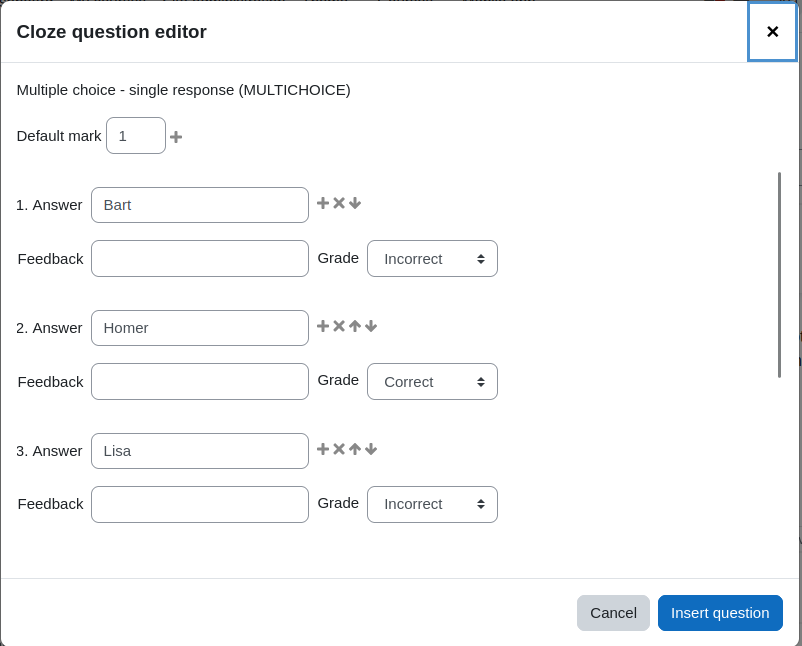
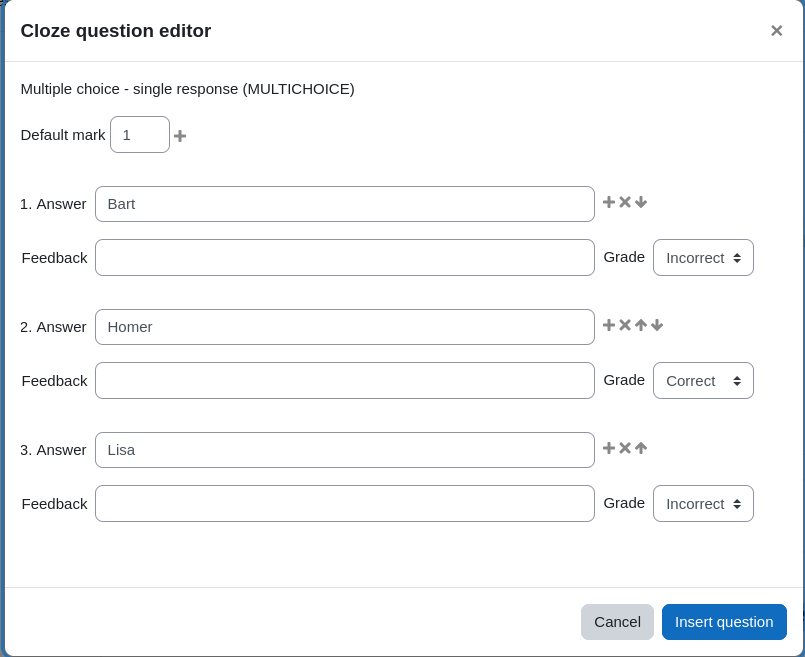
tiny_cloze_moodle44_2024083000

diff --git a/lib/editor/tiny/plugins/cloze/amd/build/ui.min.js b/lib/editor/tiny/plugins/cloze/amd/build/ui.min.js
@@ -5,6 +5,6 @@ define("tiny_cloze/ui",["exports","core/modal_events","core/modal","core/modal_f
    * @module      tiny_cloze/ui
    * @copyright   2023 MoodleDACH
    * @license     http://www.gnu.org/copyleft/gpl.html GNU GPL v3 or later
-   */Object.defineProperty(_exports,"__esModule",{value:!0}),_exports.resolveSubquestion=_exports.onSubmit=_exports.onInit=_exports.onBeforeGetContent=_exports.displayDialogue=void 0,_modal_events=_interopRequireDefault(_modal_events),_modal2=_interopRequireDefault(_modal2),_modal_factory=_interopRequireDefault(_modal_factory),_mustache=_interopRequireDefault(_mustache);const isNull=a=>null==a,strdecode=t=>String(t).replace(/\\(#|\}|~)/g,"$1"),strencode=t=>String(t).replace(/(#|\}|~)/g,"\\$1"),indexOfNode=(list,node)=>{for(let i=0;i<list.length;i++)if(list[i]===node)return i;return-1},getUuid=function(){return isNull(crypto.randomUUID)?"ed-cloze-"+Math.floor(1e5*Math.random()).toString():crypto.randomUUID()},getFractionOptions=s=>{const attrSel=' selected="selected"';let isSel="="===s?attrSel:"",html='<option value="">'.concat(STR.incorrect,'</option><option value="="').concat(isSel,">").concat(STR.correct,"</option>");return FRACTIONS.forEach((item=>{isSel=item.value.toString()===s?attrSel:"",html+='<option value="'.concat(item.value,'"').concat(isSel,">").concat(item.value,"%</option>")})),isSel=""!==s&&-1===html.indexOf(attrSel)?attrSel:"",html+='<option value="'.concat("__custom__",'"').concat(isSel,">").concat(STR.custom_grade,"</option>"),html},isCustomGrade=s=>{if("="===s||""===s)return!1;let found=!1;return FRACTIONS.forEach((item=>{item.value.toString()===s&&(found=!0)})),!found},markerClass="cloze-question-marker",markerSpan='<span contenteditable="false" class="'+markerClass+'" data-mce-contenteditable="false">',reQtype=/\{([0-9]*):(MULTICHOICE(_H|_V|_S|_HS|_VS)?|MULTIRESPONSE(_H|_S|_HS)?|NUMERICAL|SHORTANSWER(_C)?|SAC?|NM|MWC?|M[CR](V|H|VS|HS)?):(.*?)\}/g,CSS={ANSWER:"tiny_cloze_answer",ANSWERS:"tiny_cloze_answers",ADD:"tiny_cloze_add",CANCEL:"tiny_cloze_cancel",DELETE:"tiny_cloze_delete",FEEDBACK:"tiny_cloze_feedback",FRACTION:"tiny_cloze_fraction",FRAC_CUSTOM:"tiny_cloze_frac_custom",LEFT:"tiny_cloze_col0",LOWER:"tiny_cloze_down",RIGHT:"tiny_cloze_col1",MARKS:"tiny_cloze_marks",DUPLICATE:"tiny_cloze_duplicate",RAISE:"tiny_cloze_up",SUBMIT:"tiny_cloze_submit",SUMMARY:"tiny_cloze_summary",TOLERANCE:"tiny_cloze_tolerance",TYPE:"tiny_cloze_qtype"},TEMPLATE={FORM:'<div class="tiny_cloze"><p>{{name}} ({{qtype}})</p><form name="tiny_cloze_form"><div class="row ml-0"><div class="form-group"><label for="{{elementid}}_mark">{{STR.defaultmark}}</label><input id="{{elementid}}_mark" type="text" value="{{marks}}" class="{{CSS.MARKS}} form-control d-inline mx-1" /><a class="{{CSS.ADD}}" title="{{STR.addmoreanswerblanks}}"><img class="icon_smallicon" src="'+M.util.image_url("t/add","core")+'" alt="{{STR.addmoreanswerblanks}}"></a></div><div class="msg-error hidden"></div></div><div class="{{CSS.ANSWERS}} mb-3"><ol class="pl-3">{{#answerdata}}<li class="mt-3"><div class="row ml-0"><div class="{{CSS.LEFT}} form-group"><label for="{{id}}_answer">{{STR.answer}}</label><input id="{{id}}_answer" type="text" value="{{answer}}" class="{{CSS.ANSWER}} form-control d-inline mx-2" /></div><div class="{{CSS.LEFT}} form-group"><a class="{{CSS.ADD}}" title="{{STR.addmoreanswerblanks}}"><img class="icon_smallicon" src="'+M.util.image_url("t/add","core")+'" alt="{{STR.addmoreanswerblanks}}"></a><a class="{{CSS.DELETE}}" title="{{STR.delete}}"><img class="icon_smallicon" src="'+M.util.image_url("t/delete","core")+'" alt="{{STR.delete}}"></a><a class="{{CSS.RAISE}}" title="{{STR.up}}"><img class="icon_smallicon" src="'+M.util.image_url("t/up","core")+'" alt="{{STR.up}}"></a><a class="{{CSS.LOWER}}" title="{{STR.down}}"><img class="icon_smallicon" src="'+M.util.image_url("t/down","core")+'" alt="{{STR.down}}"></a></div></div>{{#numerical}}<div class="row"><div class="{{CSS.RIGHT}} form-group"><label for="{{id}}_tolerance">{{{STR.tolerance}}}</label><input id="{{id}}_tolerance" type="text" value="{{tolerance}}" class="{{CSS.TOLERANCE}} form-control d-inline mx-2" /></div></div>{{/numerical}}<div class="row"><div class="{{CSS.RIGHT}} form-group"><label for="{{id}}_feedback">{{STR.feedback}}</label><input id="{{id}}_feedback" type="text" value="{{feedback}}" class="{{CSS.FEEDBACK}} form-control d-inline mx-2" /></div><div class="{{CSS.RIGHT}} form-group"><label id="{{id}}_grade">{{STR.grade}}</label><select id="{{id}}_grade" class="{{CSS.FRACTION}} custom-select mx-2">{{{fractionOptions}}}</select></div><div class="{{CSS.RIGHT}} form-group{{^isCustomGrade}} hidden{{/isCustomGrade}}"><input id="{{id}}_grade_custom" type="text"{{#isCustomGrade}} value="{{fraction}}"{{/isCustomGrade}} class="{{CSS.FRAC_CUSTOM}} form-control d-inline mx-2" style="width: 4rem;" />%</div></div></li>{{/answerdata}}</ol></div></form></div>',TYPE:'<div class="tiny_cloze mt-0 mx-2 mb-2"><p>{{STR.chooseqtypetoadd}}</p><form name="tiny_cloze_form"><div class="{{CSS.TYPE}} form-check">{{#types}}<div class="option"><input name="qtype" id="qtype_qtype_{{type}}" value="{{type}}" type="radio" class="form-check-input"><label for="qtype_qtype_{{type}}"><span class="typename">{{type}}</span><span class="{{CSS.SUMMARY}}"><h6>{{name}}</h6><p>{{summary}}</p><ul>{{#options}}<li>{{.}}</li>{{/options}}</ul></span></label></div>{{/types}}</div></form></div>',FOOTER:'<button type="button" class="btn btn-secondary" data-action="cancel">{{cancel}}</button><button type="button" class="btn btn-primary" data-action="save">{{submit}}</button>'},FRACTIONS=[{value:100},{value:50},{value:0}],STR={},getQuestionTypes=function(){return[{type:"MULTICHOICE",abbr:["MC"],name:STR.multichoice,summary:STR.summary_multichoice,options:[STR.selectinline,STR.singleyes]},{type:"MULTICHOICE_H",abbr:["MCH"],name:STR.multichoice,summary:STR.summary_multichoice,options:[STR.horizontal,STR.singleyes]},{type:"MULTICHOICE_V",abbr:["MCV"],name:STR.multichoice,summary:STR.summary_multichoice,options:[STR.vertical,STR.singleyes]},{type:"MULTICHOICE_S",abbr:["MCS"],name:STR.multichoice,summary:STR.summary_multichoice,options:[STR.selectinline,STR.shuffle,STR.singleyes]},{type:"MULTICHOICE_HS",abbr:["MCHS"],name:STR.multichoice,summary:STR.summary_multichoice,options:[STR.horizontal,STR.shuffle,STR.singleyes]},{type:"MULTICHOICE_VS",abbr:["MCVS"],name:STR.multichoice,summary:STR.summary_multichoice,options:[STR.vertical,STR.shuffle,STR.singleyes]},{type:"MULTIRESPONSE",abbr:["MR"],name:STR.multiresponse,summary:STR.summary_multichoice,options:[STR.multi_vertical,STR.singleno]},{type:"MULTIRESPONSE_H",abbr:["MRH"],name:STR.multiresponse,summary:STR.summary_multichoice,options:[STR.multi_horizontal,STR.singleno]},{type:"MULTIRESPONSE_S",abbr:["MRS"],name:STR.multiresponse,summary:STR.summary_multichoice,options:[STR.multi_vertical,STR.shuffle,STR.singleno]},{type:"MULTIRESPONSE_HS",abbr:["MRHS"],name:STR.multiresponse,summary:STR.summary_multichoice,options:[STR.multi_horizontal,STR.shuffle,STR.singleno]},{type:"NUMERICAL",abbr:["NM"],name:STR.numerical,summary:STR.summary_numerical},{type:"SHORTANSWER",abbr:["SA","MW"],name:STR.shortanswer,summary:STR.summary_shortanswer,options:[STR.caseno]},{type:"SHORTANSWER_C",abbr:["SAC","MWC"],name:STR.shortanswer,summary:STR.summary_shortanswer,options:[STR.caseyes]}]};let _editor=null,_form=null,_answerdata=[],_qtype=null,_selectedOffset=-1,_marks=1,_modal=null,_firstAnswer=null;_exports.onInit=function(ed){_editor=ed,_addMarkers(),(async()=>{(0,_str.get_strings)([{key:"answer",component:"question"},{key:"chooseqtypetoadd",component:"question"},{key:"defaultmark",component:"question"},{key:"feedback",component:"question"},{key:"correct",component:"question"},{key:"incorrect",component:"question"},{key:"addmoreanswerblanks",component:"qtype_calculated"},{key:"delete",component:"core"},{key:"up",component:"core"},{key:"down",component:"core"},{key:"tolerance",component:"qtype_calculated"},{key:"grade",component:"grades"},{key:"caseno",component:"mod_quiz"},{key:"caseyes",component:"mod_quiz"},{key:"answersingleno",component:"qtype_multichoice"},{key:"answersingleyes",component:"qtype_multichoice"},{key:"layoutselectinline",component:"qtype_multianswer"},{key:"layouthorizontal",component:"qtype_multianswer"},{key:"layoutvertical",component:"qtype_multianswer"},{key:"shufflewithin",component:"mod_quiz"},{key:"layoutmultiple_horizontal",component:"qtype_multianswer"},{key:"layoutmultiple_vertical",component:"qtype_multianswer"},{key:"pluginnamesummary",component:"qtype_multichoice"},{key:"pluginnamesummary",component:"qtype_shortanswer"},{key:"pluginnamesummary",component:"qtype_numerical"},{key:"multichoice",component:_common.component},{key:"multiresponse",component:_common.component},{key:"numerical",component:"mod_quiz"},{key:"shortanswer",component:"mod_quiz"},{key:"cancel",component:"core"},{key:"select",component:_common.component},{key:"insert",component:_common.component},{key:"pluginname",component:_common.component},{key:"customgrade",component:_common.component},{key:"err_custom_rate",component:_common.component},{key:"err_empty_answer",component:_common.component},{key:"err_none_correct",component:_common.component},{key:"err_not_numeric",component:_common.component}]).then((function(){const args=Array.from(arguments);return["answer","chooseqtypetoadd","defaultmark","feedback","correct","incorrect","addmoreanswerblanks","delete","up","down","tolerance","grade","caseno","caseyes","singleno","singleyes","selectinline","horizontal","vertical","shuffle","multi_horizontal","multi_vertical","summary_multichoice","summary_shortanswer","summary_numerical","multichoice","multiresponse","numerical","shortanswer","btn_cancel","btn_select","btn_insert","title","custom_grade","err_custom_rate","err_empty_answer","err_none_correct","err_not_numeric"].map(((l,i)=>(STR[l]=args[0][i],""))),""})).catch((()=>""))})()};const _createModal=async function(){const cfg={title:STR.title,templateContext:{elementid:_editor.id},removeOnClose:!0,large:!0};_modal="function"==typeof _modal2.default.create?await _modal2.default.create(cfg):await _modal_factory.default.create(cfg)};_exports.displayDialogue=async function(){await _createModal();var subquestion=resolveSubquestion();subquestion?(_firstAnswer=null,_selectedOffset=indexOfNode(_editor.dom.select("."+markerClass),subquestion),_parseSubquestion(subquestion.innerHTML),_setDialogueContent(_qtype)):(_firstAnswer=_editor.selection.getContent(),_selectedOffset=-1,_setDialogueContent())};const _addMarkers=function(){let m,content=_editor.getContent(),newContent="";if(-1===content.indexOf(markerClass)){do{if(m=content.match(reQtype),!m){newContent+=content;break}const pos=content.indexOf(m[0]);newContent+=content.substring(0,pos)+markerSpan+content.substring(pos,pos+m[0].length),content=content.substring(pos+m[0].length);let level=(m[0].match(/\{/g)||[]).length;if(1!==level){for(;level>1;){const a=content.indexOf("{"),b=content.indexOf("}");a>-1&&b>-1&&a<b?(level++,newContent=content.substring(0,a),content=content.substring(a+1)):b>-1?(newContent=content.substring(0,b),content=content.substring(b+1),level--):level=1}newContent+="</span>"}else newContent+="</span>"}while(m);_editor.setContent(newContent)}},_removeMarkers=function(){for(const span of _editor.dom.select("span."+markerClass))_editor.dom.setOuterHTML(span,span.classList.contains("new")?"":span.innerHTML)};_exports.onBeforeGetContent=function(content){if(!isNull(content.source_view)&&!0===content.source_view){var onClose=function(){_editor.off("close",onClose),_addMarkers()};_editor.on("CloseWindow",(()=>{onClose()})),_modal||_removeMarkers()}};_exports.onSubmit=function(){_removeMarkers()};const _setDialogueContent=function(qtype,nomodalevents){const footer=_mustache.default.render(TEMPLATE.FOOTER,{cancel:STR.btn_cancel,submit:qtype?STR.btn_insert:STR.btn_select});let contentText;contentText=qtype?_mustache.default.render(TEMPLATE.FORM,{CSS:CSS,STR:STR,answerdata:_answerdata,elementid:getUuid(),qtype:_qtype,name:getQuestionTypes().filter((q=>_qtype===q.type))[0].name,marks:_marks,numerical:"NUMERICAL"===_qtype||"NM"===_qtype}):_mustache.default.render(TEMPLATE.TYPE,{CSS:CSS,STR:STR,qtype:_qtype,types:getQuestionTypes()}),_modal.setBody(contentText),_modal.setFooter(footer),_modal.show();const $root=_modal.getRoot();if(_form=$root.get(0).querySelector("form"),!nomodalevents){if(_modal.registerEventListeners(),_modal.registerCloseOnSave(),_modal.registerCloseOnCancel(),$root.on(_modal_events.default.cancel,_cancel),!qtype)return void $root.on(_modal_events.default.save,_choiceHandler);$root.on(_modal_events.default.save,_setSubquestion)}const getTarget=e=>{let p=e.target;for(;!isNull(p)&&1===p.nodeType&&"A"!==p.tagName;)p=p.parentNode;return isNull(p.classList)?null:p};_form.addEventListener("click",(e=>{const p=getTarget(e);if(!isNull(p))return p.classList.contains(CSS.DELETE)?(e.preventDefault(),void _deleteAnswer(p)):p.classList.contains(CSS.ADD)?(e.preventDefault(),void _addAnswer(p)):p.classList.contains(CSS.LOWER)?(e.preventDefault(),void _lowerAnswer(p)):void(p.classList.contains(CSS.RAISE)&&(e.preventDefault(),_raiseAnswer(p)))})),_form.addEventListener("keyup",(e=>{const p=getTarget(e);isNull(p)||(p.classList.contains(CSS.ANSWER)||p.classList.contains(CSS.FEEDBACK))&&(e.preventDefault(),_addAnswer(p))})),_form.querySelectorAll("."+CSS.FRACTION).forEach((sel=>{sel.addEventListener("change",(e=>{const id=e.target.getAttribute("id");"__custom__"===e.target.value?document.getElementById(id+"_custom").parentNode.classList.remove("hidden"):document.getElementById(id+"_custom").parentNode.classList.add("hidden")}))}))},_choiceHandler=function(e){e.preventDefault();let qtype=_form.querySelector("input[name=qtype]:checked");qtype&&(_qtype=qtype.value);const max=-1!==_qtype.indexOf("SHORTANSWER")||"NUMERICAL"===_qtype?1:3,blankAnswer={id:getUuid(),answer:"",feedback:"",fraction:100,fractionOptions:getFractionOptions("="),tolerance:0,isCustomGrade:!1};_answerdata=[];for(let x=0;x<max;x++)_answerdata.push({...blankAnswer,id:getUuid()});_firstAnswer&&(_answerdata[0].answer=_firstAnswer),_modal.destroy(),_createModal().then((()=>(_setDialogueContent(_qtype),_form.querySelector("."+CSS.ANSWER).focus(),""))).catch((()=>""))},_parseSubquestion=function(question){_answerdata=[];const parts=reQtype.exec(question);if(reQtype.lastIndex=0,!parts)return;_marks=parts[1],_qtype=parts[2],_qtype.length<5&&getQuestionTypes().forEach((l=>{for(const a of l.abbr)if(a===_qtype)return void(_qtype=l.type)}));const answers=parts[7].match(/(\\.|[^~])*/g);answers&&answers.forEach((function(answer){const options=/^(%(-?[.0-9]+)%|(=?))((\\.|[^#])*)#?(.*)/.exec(answer);if(options&&options[4]){let frac="";if(options[3]?frac="="===options[3]?"=":100:options[2]&&(frac=options[2]),"NUMERICAL"===_qtype||"NM"===_qtype){const tolerance=/^([^:]*):?(.*)/.exec(options[4])[2]||0;return void _answerdata.push({id:getUuid(),answer:strdecode(options[4].replace(/:.*/,"")),feedback:strdecode(options[6]),tolerance:tolerance,fraction:frac,fractionOptions:getFractionOptions(frac),isCustomGrade:isCustomGrade(frac)})}_answerdata.push({answer:strdecode(options[4]),id:getUuid(),feedback:strdecode(options[6]),fraction:frac,fractionOptions:getFractionOptions(frac),isCustomGrade:isCustomGrade(frac)})}}))},_addAnswer=function(a){let index=indexOfNode(_form.querySelectorAll("."+CSS.ADD),a);-1===index&&(index=0);let fraction="",answer="",feedback="",tolerance=0;a.closest("li")&&(fraction=a.closest("li").querySelector("."+CSS.FRACTION).value,"__custom__"===fraction&&(fraction=a.closest("li").querySelector("."+CSS.FRAC_CUSTOM).value),answer=a.closest("li").querySelector("."+CSS.ANSWER).value,feedback=a.closest("li").querySelector("."+CSS.FEEDBACK).value,a.closest("li").querySelector("."+CSS.TOLERANCE)&&(tolerance=a.closest("li").querySelector("."+CSS.TOLERANCE).value)),_processFormData(),_answerdata.splice(index,0,{id:getUuid(),answer:answer,feedback:feedback,fraction:fraction,fractionOptions:getFractionOptions(fraction),tolerance:tolerance,isCustomGrade:isCustomGrade(fraction)}),_setDialogueContent(_qtype,!0),_form.querySelectorAll("."+CSS.ANSWER).item(index).focus()},_deleteAnswer=function(a){let index=indexOfNode(_form.querySelectorAll("."+CSS.DELETE),a);-1===index&&(index=indexOfNode(_form.querySelectorAll("li"),a.closest("li"))),_processFormData(),_answerdata.splice(index,1),_setDialogueContent(_qtype,!0);const answers=_form.querySelectorAll("."+CSS.ANSWER);index=Math.min(index,answers.length-1),answers.item(index).focus()},_lowerAnswer=function(a){const li=a.closest("li");li.before(li.nextSibling),li.querySelector("."+CSS.ANSWER).focus()},_raiseAnswer=function(a){const li=a.closest("li");li.after(li.previousSibling),li.querySelector("."+CSS.ANSWER).focus()},_cancel=function(e){e.preventDefault();for(const span of _editor.dom.select("."+markerClass+".new"))span.remove();_modal.destroy(),_editor.focus(),_modal=null},_setSubquestion=function(e){e.preventDefault();const errMsg=_form.querySelector(".msg-error"),formErrors=_processFormData(!0);if(formErrors.length>0){const unique=formErrors.filter(((value,index,array)=>array.indexOf(value)===index));return errMsg.innerHTML="<ul><li>"+unique.join("</li><li>")+"</li></ul>",void errMsg.classList.remove("hidden")}errMsg.classList.add("hidden");let question="{"+_marks+":"+_qtype+":";for(let i=0;i<_answerdata.length;i++)question+=_answerdata[i].fraction&&!isNaN(_answerdata[i].fraction)?"%"+_answerdata[i].fraction+"%":_answerdata[i].fraction,question+=strencode(_answerdata[i].answer),"NM"!==_qtype&&"NUMERICAL"!==_qtype||(question+=":"+_answerdata[i].tolerance),_answerdata[i].feedback&&(question+="#"+strencode(_answerdata[i].feedback)),i<_answerdata.length-1&&(question+="~");question+="}",_modal.destroy(),_modal=null,_editor.focus(),_selectedOffset>-1?_editor.dom.select("."+markerClass)[_selectedOffset].innerHTML=question:_editor.insertContent(markerSpan+question+"</span>")},_processFormData=function(validate){let answer;_answerdata=[];let tolerance=0,hasErrors=[],foundCorrect=!1;const answers=_form.querySelectorAll("."+CSS.ANSWER),feedbacks=_form.querySelectorAll("."+CSS.FEEDBACK),fractions=_form.querySelectorAll("."+CSS.FRACTION),customGrades=_form.querySelectorAll("."+CSS.FRAC_CUSTOM),tolerances=_form.querySelectorAll("."+CSS.TOLERANCE);for(let i=0;i<answers.length;i++){answers.item(i).classList.remove("error"),customGrades.item(i).classList.remove("error"),answer=answers.item(i).value,"NM"!==_qtype&&"NUMERICAL"!==_qtype||(answer=Number(answer),tolerance=Number(tolerances.item(i).value),tolerances.item(i).classList.remove("error"),validate&&(isNaN(answer)&&(answers.item(i).classList.add("error"),hasErrors.push(STR.err_not_numeric)),isNaN(tolerance)&&(tolerances.item(i).classList.add("error"),hasErrors.push(STR.err_not_numeric))));const currentAnswer={answer:answer,id:getUuid(),feedback:feedbacks.item(i).value,fraction:"__custom__"===fractions.item(i).value?customGrades.item(i).value:fractions.item(i).value,fractionOptions:getFractionOptions(fractions.item(i).value),tolerance:tolerance,isCustomGrade:"__custom__"===fractions.item(i).value};validate&&(currentAnswer.isCustomGrade&&(isNaN(currentAnswer.fraction)||currentAnswer.fraction<-100||currentAnswer.fraction>100||""===currentAnswer.fraction.trim())&&(hasErrors.push(STR.err_custom_rate),customGrades.item(i).classList.add("error")),""===answers.item(i).value.trim()&&(answers.item(i).classList.add("error"),hasErrors.push(STR.err_empty_answer)),"100"!==currentAnswer.fraction&&"="!==currentAnswer.fraction||(foundCorrect=!0)),_answerdata.push(currentAnswer),_marks=_form.querySelector("."+CSS.MARKS).value}return validate&&!foundCorrect&&hasErrors.push(STR.err_none_correct),hasErrors},resolveSubquestion=function(){let span=_editor.selection.getStart();return!isNull(span.classList)&&span.classList.contains(markerClass)?span:(_editor.dom.getParents(span,(elm=>!(isNull(elm.classList)||!elm.classList.contains(markerClass))&&elm)),!1)};_exports.resolveSubquestion=resolveSubquestion}));
+   */Object.defineProperty(_exports,"__esModule",{value:!0}),_exports.resolveSubquestion=_exports.onSubmit=_exports.onInit=_exports.onBeforeGetContent=_exports.displayDialogue=void 0,_modal_events=_interopRequireDefault(_modal_events),_modal2=_interopRequireDefault(_modal2),_modal_factory=_interopRequireDefault(_modal_factory),_mustache=_interopRequireDefault(_mustache);const isNull=a=>null==a,strdecode=t=>String(t).replace(/\\(#|\}|~)/g,"$1"),strencode=t=>String(t).replace(/(#|\}|~)/g,"\\$1"),indexOfNode=(list,node)=>{for(let i=0;i<list.length;i++)if(list[i]===node)return i;return-1},getUuid=function(){return isNull(crypto.randomUUID)?"ed-cloze-"+Math.floor(1e5*Math.random()).toString():crypto.randomUUID()},getFractionOptions=s=>{const attrSel=' selected="selected"';let isSel="="===s?attrSel:"",html='<option value="">'.concat(STR.incorrect,'</option><option value="="').concat(isSel,">").concat(STR.correct,"</option>");return FRACTIONS.forEach((item=>{isSel=item.value.toString()===s?attrSel:"",html+='<option value="'.concat(item.value,'"').concat(isSel,">").concat(item.value,"%</option>")})),isSel=""!==s&&-1===html.indexOf(attrSel)?attrSel:"",html+='<option value="'.concat("__custom__",'"').concat(isSel,">").concat(STR.custom_grade,"</option>"),html},isCustomGrade=s=>{if("="===s||""===s)return!1;let found=!1;return FRACTIONS.forEach((item=>{item.value.toString()===s&&(found=!0)})),!found},markerClass="cloze-question-marker",markerSpan='<span contenteditable="false" class="'+markerClass+'" data-mce-contenteditable="false">',reQtype=/\{([0-9]*):(MULTICHOICE(_H|_V|_S|_HS|_VS)?|MULTIRESPONSE(_H|_S|_HS)?|NUMERICAL|SHORTANSWER(_C)?|SAC?|NM|MWC?|M[CR](V|H|VS|HS)?):(.*?)\}/g,CSS={ANSWER:"tiny_cloze_answer",ANSWERS:"tiny_cloze_answers",ADD:"tiny_cloze_add",CANCEL:"tiny_cloze_cancel",DELETE:"tiny_cloze_delete",FEEDBACK:"tiny_cloze_feedback",FRACTION:"tiny_cloze_fraction",FRAC_CUSTOM:"tiny_cloze_frac_custom",LEFT:"tiny_cloze_col0",LOWER:"tiny_cloze_down",RIGHT:"tiny_cloze_col1",MARKS:"tiny_cloze_marks",DUPLICATE:"tiny_cloze_duplicate",RAISE:"tiny_cloze_up",SUBMIT:"tiny_cloze_submit",SUMMARY:"tiny_cloze_summary",TOLERANCE:"tiny_cloze_tolerance",TYPE:"tiny_cloze_qtype"},TEMPLATE={FORM:'<div class="tiny_cloze"><p>{{name}} ({{qtype}})</p><form name="tiny_cloze_form"><div class="row ml-0"><div class="form-group"><label for="{{elementid}}_mark">{{STR.defaultmark}}</label><input id="{{elementid}}_mark" type="text" value="{{marks}}" class="{{CSS.MARKS}} form-control d-inline mx-1" /><a class="{{CSS.ADD}}" title="{{STR.addmoreanswerblanks}}"><img class="icon_smallicon" src="'+M.util.image_url("t/add","core")+'" alt="{{STR.addmoreanswerblanks}}"></a></div><div class="msg-error hidden"></div></div><div class="{{CSS.ANSWERS}} mb-3"><ol class="pl-3">{{#answerdata}}<li class="mt-3"><div class="row ml-0"><div class="{{CSS.LEFT}} form-group"><label for="{{id}}_answer">{{STR.answer}}</label><input id="{{id}}_answer" type="text" value="{{answer}}" class="{{CSS.ANSWER}} form-control d-inline mx-2" /></div><div class="{{CSS.LEFT}} form-group"><a class="{{CSS.ADD}}" title="{{STR.addmoreanswerblanks}}"><img class="icon_smallicon" src="'+M.util.image_url("t/add","core")+'" alt="{{STR.addmoreanswerblanks}}"></a><a class="{{CSS.DELETE}}" title="{{STR.delete}}"><img class="icon_smallicon" src="'+M.util.image_url("t/delete","core")+'" alt="{{STR.delete}}"></a><a class="{{CSS.RAISE}}" title="{{STR.up}}"><img class="icon_smallicon" src="'+M.util.image_url("t/up","core")+'" alt="{{STR.up}}"></a><a class="{{CSS.LOWER}}" title="{{STR.down}}"><img class="icon_smallicon" src="'+M.util.image_url("t/down","core")+'" alt="{{STR.down}}"></a></div></div>{{#numerical}}<div class="row"><div class="{{CSS.RIGHT}} form-group"><label for="{{id}}_tolerance">{{{STR.tolerance}}}</label><input id="{{id}}_tolerance" type="text" value="{{tolerance}}" class="{{CSS.TOLERANCE}} form-control d-inline mx-2" /></div></div>{{/numerical}}<div class="row"><div class="{{CSS.RIGHT}} form-group"><label for="{{id}}_feedback">{{STR.feedback}}</label><input id="{{id}}_feedback" type="text" value="{{feedback}}" class="{{CSS.FEEDBACK}} form-control d-inline mx-2" /></div><div class="{{CSS.RIGHT}} form-group"><label id="{{id}}_grade">{{STR.grade}}</label><select id="{{id}}_grade" class="{{CSS.FRACTION}} custom-select mx-2">{{{fractionOptions}}}</select></div><div class="{{CSS.RIGHT}} form-group{{^isCustomGrade}} hidden{{/isCustomGrade}}"><input id="{{id}}_grade_custom" type="text"{{#isCustomGrade}} value="{{fraction}}"{{/isCustomGrade}} class="{{CSS.FRAC_CUSTOM}} form-control d-inline mx-2" style="width: 4rem;" />%</div></div></li>{{/answerdata}}</ol></div></form></div>',TYPE:'<div class="tiny_cloze mt-0 mx-2 mb-2"><p>{{STR.chooseqtypetoadd}}</p><form name="tiny_cloze_form"><div class="{{CSS.TYPE}} form-check">{{#types}}<div class="option"><input name="qtype" id="qtype_qtype_{{type}}" value="{{type}}" type="radio" class="form-check-input"><label for="qtype_qtype_{{type}}"><span class="typename">{{type}}</span><span class="{{CSS.SUMMARY}}"><h6>{{name}}</h6><p>{{summary}}</p><ul>{{#options}}<li>{{.}}</li>{{/options}}</ul></span></label></div>{{/types}}</div></form></div>',FOOTER:'<button type="button" class="btn btn-secondary" data-action="cancel">{{cancel}}</button><button type="button" class="btn btn-primary" data-action="save">{{submit}}</button>'},FRACTIONS=[{value:100},{value:50},{value:0}],STR={},getQuestionTypes=function(){return[{type:"MULTICHOICE",abbr:["MC"],name:STR.multichoice,summary:STR.summary_multichoice,options:[STR.selectinline,STR.singleyes]},{type:"MULTICHOICE_H",abbr:["MCH"],name:STR.multichoice,summary:STR.summary_multichoice,options:[STR.horizontal,STR.singleyes]},{type:"MULTICHOICE_V",abbr:["MCV"],name:STR.multichoice,summary:STR.summary_multichoice,options:[STR.vertical,STR.singleyes]},{type:"MULTICHOICE_S",abbr:["MCS"],name:STR.multichoice,summary:STR.summary_multichoice,options:[STR.selectinline,STR.shuffle,STR.singleyes]},{type:"MULTICHOICE_HS",abbr:["MCHS"],name:STR.multichoice,summary:STR.summary_multichoice,options:[STR.horizontal,STR.shuffle,STR.singleyes]},{type:"MULTICHOICE_VS",abbr:["MCVS"],name:STR.multichoice,summary:STR.summary_multichoice,options:[STR.vertical,STR.shuffle,STR.singleyes]},{type:"MULTIRESPONSE",abbr:["MR"],name:STR.multiresponse,summary:STR.summary_multichoice,options:[STR.multi_vertical,STR.singleno]},{type:"MULTIRESPONSE_H",abbr:["MRH"],name:STR.multiresponse,summary:STR.summary_multichoice,options:[STR.multi_horizontal,STR.singleno]},{type:"MULTIRESPONSE_S",abbr:["MRS"],name:STR.multiresponse,summary:STR.summary_multichoice,options:[STR.multi_vertical,STR.shuffle,STR.singleno]},{type:"MULTIRESPONSE_HS",abbr:["MRHS"],name:STR.multiresponse,summary:STR.summary_multichoice,options:[STR.multi_horizontal,STR.shuffle,STR.singleno]},{type:"NUMERICAL",abbr:["NM"],name:STR.numerical,summary:STR.summary_numerical},{type:"SHORTANSWER",abbr:["SA","MW"],name:STR.shortanswer,summary:STR.summary_shortanswer,options:[STR.caseno]},{type:"SHORTANSWER_C",abbr:["SAC","MWC"],name:STR.shortanswer,summary:STR.summary_shortanswer,options:[STR.caseyes]}]};let _editor=null,_form=null,_answerdata=[],_qtype=null,_selectedOffset=-1,_marks=1,_modal=null,_firstAnswer=null;_exports.onInit=function(ed){_editor=ed,_addMarkers(),(async()=>{(0,_str.get_strings)([{key:"answer",component:"question"},{key:"chooseqtypetoadd",component:"question"},{key:"defaultmark",component:"question"},{key:"feedback",component:"question"},{key:"correct",component:"question"},{key:"incorrect",component:"question"},{key:"addmoreanswerblanks",component:"qtype_calculated"},{key:"delete",component:"core"},{key:"up",component:"core"},{key:"down",component:"core"},{key:"tolerance",component:"qtype_calculated"},{key:"grade",component:"grades"},{key:"caseno",component:"mod_quiz"},{key:"caseyes",component:"mod_quiz"},{key:"answersingleno",component:"qtype_multichoice"},{key:"answersingleyes",component:"qtype_multichoice"},{key:"layoutselectinline",component:"qtype_multianswer"},{key:"layouthorizontal",component:"qtype_multianswer"},{key:"layoutvertical",component:"qtype_multianswer"},{key:"shufflewithin",component:"mod_quiz"},{key:"layoutmultiple_horizontal",component:"qtype_multianswer"},{key:"layoutmultiple_vertical",component:"qtype_multianswer"},{key:"pluginnamesummary",component:"qtype_multichoice"},{key:"pluginnamesummary",component:"qtype_shortanswer"},{key:"pluginnamesummary",component:"qtype_numerical"},{key:"multichoice",component:_common.component},{key:"multiresponse",component:_common.component},{key:"numerical",component:"mod_quiz"},{key:"shortanswer",component:"mod_quiz"},{key:"cancel",component:"core"},{key:"select",component:_common.component},{key:"insert",component:_common.component},{key:"pluginname",component:_common.component},{key:"customgrade",component:_common.component},{key:"err_custom_rate",component:_common.component},{key:"err_empty_answer",component:_common.component},{key:"err_none_correct",component:_common.component},{key:"err_not_numeric",component:_common.component}]).then((function(){const args=Array.from(arguments);return["answer","chooseqtypetoadd","defaultmark","feedback","correct","incorrect","addmoreanswerblanks","delete","up","down","tolerance","grade","caseno","caseyes","singleno","singleyes","selectinline","horizontal","vertical","shuffle","multi_horizontal","multi_vertical","summary_multichoice","summary_shortanswer","summary_numerical","multichoice","multiresponse","numerical","shortanswer","btn_cancel","btn_select","btn_insert","title","custom_grade","err_custom_rate","err_empty_answer","err_none_correct","err_not_numeric"].map(((l,i)=>(STR[l]=args[0][i],""))),""})).catch((()=>""))})()};const _createModal=async function(){const cfg={title:STR.title,templateContext:{elementid:_editor.id},removeOnClose:!0,large:!0};_modal="function"==typeof _modal2.default.create?await _modal2.default.create(cfg):await _modal_factory.default.create(cfg)};_exports.displayDialogue=async function(){await _createModal();var subquestion=resolveSubquestion();subquestion?(_firstAnswer=null,_selectedOffset=indexOfNode(_editor.dom.select("."+markerClass),subquestion),_parseSubquestion(subquestion.innerHTML),_setDialogueContent(_qtype)):(_firstAnswer=_editor.selection.getContent(),_selectedOffset=-1,_setDialogueContent())};const _addMarkers=function(){let m,content=_editor.getContent(),newContent="";if(-1===content.indexOf(markerClass)){do{if(m=content.match(reQtype),!m){newContent+=content;break}const pos=content.indexOf(m[0]);newContent+=content.substring(0,pos)+markerSpan+content.substring(pos,pos+m[0].length),content=content.substring(pos+m[0].length);let level=(m[0].match(/\{/g)||[]).length;if(1!==level){for(;level>1;){const a=content.indexOf("{"),b=content.indexOf("}");a>-1&&b>-1&&a<b?(level++,newContent=content.substring(0,a),content=content.substring(a+1)):b>-1?(newContent=content.substring(0,b),content=content.substring(b+1),level--):level=1}newContent+="</span>"}else newContent+="</span>"}while(m);_editor.setContent(newContent)}},_removeMarkers=function(){for(const span of _editor.dom.select("span."+markerClass))_editor.dom.setOuterHTML(span,span.classList.contains("new")?"":span.innerHTML)};_exports.onBeforeGetContent=function(content){if(!isNull(content.source_view)&&!0===content.source_view){var onClose=function(){_editor.off("close",onClose),_addMarkers()};_editor.on("CloseWindow",(()=>{onClose()})),_modal||_removeMarkers()}};_exports.onSubmit=function(){_removeMarkers()};const _setDialogueContent=function(qtype,nomodalevents){const footer=_mustache.default.render(TEMPLATE.FOOTER,{cancel:STR.btn_cancel,submit:qtype?STR.btn_insert:STR.btn_select});let contentText;contentText=qtype?_mustache.default.render(TEMPLATE.FORM,{CSS:CSS,STR:STR,answerdata:_answerdata,elementid:getUuid(),qtype:_qtype,name:getQuestionTypes().filter((q=>_qtype===q.type))[0].name,marks:_marks,numerical:"NUMERICAL"===_qtype||"NM"===_qtype}):_mustache.default.render(TEMPLATE.TYPE,{CSS:CSS,STR:STR,qtype:_qtype,types:getQuestionTypes()}),_modal.setBody(contentText),_modal.setFooter(footer),_modal.show();const $root=_modal.getRoot();if(_form=$root.get(0).querySelector("form"),!nomodalevents){if(_modal.registerEventListeners(),_modal.registerCloseOnSave(),_modal.registerCloseOnCancel(),$root.on(_modal_events.default.cancel,_cancel),!qtype)return void $root.on(_modal_events.default.save,_choiceHandler);$root.on(_modal_events.default.save,_setSubquestion)}const getTarget=e=>{let p=e.target;for(;!isNull(p)&&1===p.nodeType&&"A"!==p.tagName;)p=p.parentNode;return isNull(p.classList)?null:p};_form.addEventListener("click",(e=>{const p=getTarget(e);if(!isNull(p))return p.classList.contains(CSS.DELETE)?(e.preventDefault(),void _deleteAnswer(p)):p.classList.contains(CSS.ADD)?(e.preventDefault(),void _addAnswer(p)):p.classList.contains(CSS.LOWER)?(e.preventDefault(),void _lowerAnswer(p)):void(p.classList.contains(CSS.RAISE)&&(e.preventDefault(),_raiseAnswer(p)))})),_form.addEventListener("keyup",(e=>{const p=getTarget(e);isNull(p)||(p.classList.contains(CSS.ANSWER)||p.classList.contains(CSS.FEEDBACK))&&(e.preventDefault(),_addAnswer(p))})),_form.querySelectorAll("."+CSS.FRACTION).forEach((sel=>{sel.addEventListener("change",(e=>{const id=e.target.getAttribute("id");"__custom__"===e.target.value?document.getElementById(id+"_custom").parentNode.classList.remove("hidden"):document.getElementById(id+"_custom").parentNode.classList.add("hidden")}))}))},_choiceHandler=function(e){e.preventDefault();let qtype=_form.querySelector("input[name=qtype]:checked");qtype&&(_qtype=qtype.value);const max=-1!==_qtype.indexOf("SHORTANSWER")||"NUMERICAL"===_qtype?1:3,blankAnswer={id:getUuid(),answer:"",feedback:"",fraction:100,fractionOptions:getFractionOptions(""),tolerance:0,isCustomGrade:!1};_answerdata=[];for(let x=0;x<max;x++)_answerdata.push({...blankAnswer,id:getUuid()});_answerdata[0].fractionOptions=getFractionOptions("="),_firstAnswer&&(_answerdata[0].answer=_firstAnswer),_modal.destroy(),_createModal().then((()=>(_setDialogueContent(_qtype),_form.querySelector("."+CSS.ANSWER).focus(),""))).catch((()=>""))},_parseSubquestion=function(question){_answerdata=[];const parts=reQtype.exec(question);if(reQtype.lastIndex=0,!parts)return;_marks=parts[1],_qtype=parts[2],_qtype.length<5&&getQuestionTypes().forEach((l=>{for(const a of l.abbr)if(a===_qtype)return void(_qtype=l.type)}));const answers=parts[7].match(/(\\.|[^~])*/g);answers&&answers.forEach((function(answer){const options=/^(%(-?[.0-9]+)%|(=?))((\\.|[^#])*)#?(.*)/.exec(answer);if(options&&options[4]){let frac="";if(options[3]?frac="="===options[3]?"=":100:options[2]&&(frac=options[2]),"NUMERICAL"===_qtype||"NM"===_qtype){const tolerance=/^([^:]*):?(.*)/.exec(options[4])[2]||0;return void _answerdata.push({id:getUuid(),answer:strdecode(options[4].replace(/:.*/,"")),feedback:strdecode(options[6]),tolerance:tolerance,fraction:frac,fractionOptions:getFractionOptions(frac),isCustomGrade:isCustomGrade(frac)})}_answerdata.push({answer:strdecode(options[4]),id:getUuid(),feedback:strdecode(options[6]),fraction:frac,fractionOptions:getFractionOptions(frac),isCustomGrade:isCustomGrade(frac)})}}))},_addAnswer=function(a){let index=indexOfNode(_form.querySelectorAll("."+CSS.ADD),a);-1===index&&(index=0);let fraction="",answer="",feedback="",tolerance=0;a.closest("li")&&(fraction=a.closest("li").querySelector("."+CSS.FRACTION).value,"__custom__"===fraction&&(fraction=a.closest("li").querySelector("."+CSS.FRAC_CUSTOM).value),answer=a.closest("li").querySelector("."+CSS.ANSWER).value,feedback=a.closest("li").querySelector("."+CSS.FEEDBACK).value,a.closest("li").querySelector("."+CSS.TOLERANCE)&&(tolerance=a.closest("li").querySelector("."+CSS.TOLERANCE).value)),_processFormData(),_answerdata.splice(index,0,{id:getUuid(),answer:answer,feedback:feedback,fraction:fraction,fractionOptions:getFractionOptions(fraction),tolerance:tolerance,isCustomGrade:isCustomGrade(fraction)}),_setDialogueContent(_qtype,!0),_form.querySelectorAll("."+CSS.ANSWER).item(index).focus()},_deleteAnswer=function(a){let index=indexOfNode(_form.querySelectorAll("."+CSS.DELETE),a);-1===index&&(index=indexOfNode(_form.querySelectorAll("li"),a.closest("li"))),_processFormData(),_answerdata.splice(index,1),_setDialogueContent(_qtype,!0);const answers=_form.querySelectorAll("."+CSS.ANSWER);index=Math.min(index,answers.length-1),answers.item(index).focus()},_lowerAnswer=function(a){const li=a.closest("li");li.before(li.nextSibling),li.querySelector("."+CSS.ANSWER).focus()},_raiseAnswer=function(a){const li=a.closest("li");li.after(li.previousSibling),li.querySelector("."+CSS.ANSWER).focus()},_cancel=function(e){e.preventDefault();for(const span of _editor.dom.select("."+markerClass+".new"))span.remove();_modal.destroy(),_editor.focus(),_modal=null},_setSubquestion=function(e){e.preventDefault();const errMsg=_form.querySelector(".msg-error"),formErrors=_processFormData(!0);if(formErrors.length>0){const unique=formErrors.filter(((value,index,array)=>array.indexOf(value)===index));return errMsg.innerHTML="<ul><li>"+unique.join("</li><li>")+"</li></ul>",void errMsg.classList.remove("hidden")}errMsg.classList.add("hidden");let question="{"+_marks+":"+_qtype+":";for(let i=0;i<_answerdata.length;i++)question+=_answerdata[i].fraction&&!isNaN(_answerdata[i].fraction)?"%"+_answerdata[i].fraction+"%":_answerdata[i].fraction,question+=strencode(_answerdata[i].answer),"NM"!==_qtype&&"NUMERICAL"!==_qtype||(question+=":"+_answerdata[i].tolerance),_answerdata[i].feedback&&(question+="#"+strencode(_answerdata[i].feedback)),i<_answerdata.length-1&&(question+="~");question+="}",_modal.destroy(),_modal=null,_editor.focus(),_selectedOffset>-1?_editor.dom.select("."+markerClass)[_selectedOffset].innerHTML=question:_editor.insertContent(markerSpan+question+"</span>")},_processFormData=function(validate){let answer;_answerdata=[];let tolerance=0,hasErrors=[],foundCorrect=!1;const answers=_form.querySelectorAll("."+CSS.ANSWER),feedbacks=_form.querySelectorAll("."+CSS.FEEDBACK),fractions=_form.querySelectorAll("."+CSS.FRACTION),customGrades=_form.querySelectorAll("."+CSS.FRAC_CUSTOM),tolerances=_form.querySelectorAll("."+CSS.TOLERANCE);for(let i=0;i<answers.length;i++){answers.item(i).classList.remove("error"),customGrades.item(i).classList.remove("error"),answer=answers.item(i).value,"NM"!==_qtype&&"NUMERICAL"!==_qtype||(answer=Number(answer),tolerance=Number(tolerances.item(i).value),tolerances.item(i).classList.remove("error"),validate&&(isNaN(answer)&&(answers.item(i).classList.add("error"),hasErrors.push(STR.err_not_numeric)),isNaN(tolerance)&&(tolerances.item(i).classList.add("error"),hasErrors.push(STR.err_not_numeric))));const currentAnswer={answer:answer,id:getUuid(),feedback:feedbacks.item(i).value,fraction:"__custom__"===fractions.item(i).value?customGrades.item(i).value:fractions.item(i).value,fractionOptions:getFractionOptions(fractions.item(i).value),tolerance:tolerance,isCustomGrade:"__custom__"===fractions.item(i).value};validate&&(currentAnswer.isCustomGrade&&(isNaN(currentAnswer.fraction)||currentAnswer.fraction<-100||currentAnswer.fraction>100||""===currentAnswer.fraction.trim())&&(hasErrors.push(STR.err_custom_rate),customGrades.item(i).classList.add("error")),"100"!==currentAnswer.fraction&&"="!==currentAnswer.fraction||""===answers.item(i).value.trim()||(foundCorrect=!0)),_answerdata.push(currentAnswer),_marks=_form.querySelector("."+CSS.MARKS).value}return validate?hasErrors.concat(_applyErrorsOnAnswers(answers,foundCorrect)):hasErrors},_applyErrorsOnAnswers=function(answers,foundCorrectAnswer){if(foundCorrectAnswer){for(let i=0;i<_answerdata.length;i++)""===answers.item(i).value.trim()&&_answerdata.splice(i,1);return[]}let hasErrors=[],focusFirst=!1,noneCorrect=!0;for(let i=0;i<answers.length;i++)""===answers.item(i).value.trim()&&(answers.item(i).classList.add("error"),focusFirst||(hasErrors.push(STR.err_empty_answer),answers.item(i).focus(),focusFirst=!0)),"100"!==_answerdata[i].fraction&&"="!==_answerdata[i].fraction||(noneCorrect=!1);return noneCorrect&&hasErrors.push(STR.err_none_correct),hasErrors},resolveSubquestion=function(){let span=_editor.selection.getStart();return!isNull(span.classList)&&span.classList.contains(markerClass)?span:(_editor.dom.getParents(span,(elm=>!(isNull(elm.classList)||!elm.classList.contains(markerClass))&&elm)),!1)};_exports.resolveSubquestion=resolveSubquestion}));
 
 //# sourceMappingURL=ui.min.js.map

diff --git a/lib/editor/tiny/plugins/cloze/amd/src/ui.js b/lib/editor/tiny/plugins/cloze/amd/src/ui.js
@@ -732,13 +732,15 @@ const _choiceHandler = function(e) {
   if (qtype) {
     _qtype = qtype.value;
   }
+  // For numerical and short answer questions we offer one response field only. All other
+  // question types have three empty response fields.
   const max = (_qtype.indexOf('SHORTANSWER') !== -1 || _qtype === 'NUMERICAL') ? 1 : 3;
   const blankAnswer = {
     id: getUuid(),
     answer: '',
     feedback: '',
     fraction: 100,
-    fractionOptions: getFractionOptions('='),
+    fractionOptions: getFractionOptions(''),
     tolerance: 0,
     isCustomGrade: false,
   };
@@ -746,6 +748,9 @@ const _choiceHandler = function(e) {
   for (let x = 0; x < max; x++) {
     _answerdata.push({...blankAnswer, id: getUuid()});
   }
+  // The first response field gets the default grade correct.
+  _answerdata[0].fractionOptions = getFractionOptions('=');
+  // In case the user seleced some text, this is used as the first answer.
   if (_firstAnswer) {
     _answerdata[0].answer = _firstAnswer;
   }
@@ -984,7 +989,7 @@ const _setSubquestion = function(e) {
 
 /**
  * Read the form data, process it and store the result in the internal  _answerdata array.
- * Also, is validation is enabled, the custom_grade field is in use and does not contain
+ * Also, if validation is enabled, the custom_grade field is in use and does not contain
  * a number, then the field is marked as an error and the return value is false.
  *
  * @method _processFormData
@@ -1007,6 +1012,7 @@ const _processFormData = function(validate) {
     answers.item(i).classList.remove('error');
     customGrades.item(i).classList.remove('error');
     answer = answers.item(i).value;
+    // For numerical questions we need to check if the answer and tolerance is a number.
     if (_qtype === 'NM' || _qtype === 'NUMERICAL') {
       answer = Number(answer);
       tolerance = Number(tolerances.item(i).value);
@@ -1032,6 +1038,7 @@ const _processFormData = function(validate) {
       isCustomGrade: fractions.item(i).value === selectCustomPercent
     };
     if (validate) {
+      // When custom grades are used, the value must be a number between -100 and 100 (percent).
       if (currentAnswer.isCustomGrade &&
         (isNaN(currentAnswer.fraction) || currentAnswer.fraction < -100 || currentAnswer.fraction > 100
           || currentAnswer.fraction.trim() === '')
@@ -1039,19 +1046,59 @@ const _processFormData = function(validate) {
         hasErrors.push(STR.err_custom_rate);
         customGrades.item(i).classList.add('error');
       }
-      // Check for non-empty value in the original input.
-      if (answers.item(i).value.trim() === '') {
-        answers.item(i).classList.add('error');
-        hasErrors.push(STR.err_empty_answer);
-      }
-      if (currentAnswer.fraction === '100' || currentAnswer.fraction === '=') {
+      // We found a correct answer, when grade is marked as 100 or "=" and the answer is not empty.
+      if ((currentAnswer.fraction === '100' || currentAnswer.fraction === '=') && answers.item(i).value.trim() !== '') {
         foundCorrect = true;
       }
     }
     _answerdata.push(currentAnswer);
     _marks = _form.querySelector('.' + CSS.MARKS).value;
   }
-  if (validate && !foundCorrect) {
+  if (!validate) {
+    return hasErrors;
+  }
+  return hasErrors.concat(_applyErrorsOnAnswers(answers, foundCorrect));
+};
+
+/**
+ * Iterate over all answer data, check for empty answers and incorrect grades. Apply the
+ * error class to the appropriate fields and return an array with error messages that are
+ * displayed on top of the response fiels.
+ * If there are correct answers, then eliminate all empty answers.
+ *
+ * @method _applyErrorsOnAnswers
+ * @param {NodeList} answers
+ * @param {Boolean} foundCorrectAnswer
+ * @return {Array}
+ * @private
+ */
+const _applyErrorsOnAnswers = function(answers, foundCorrectAnswer) {
+  if (foundCorrectAnswer) {
+    for (let i = 0; i < _answerdata.length; i++) {
+      if (answers.item(i).value.trim() === '') {
+        _answerdata.splice(i, 1);
+      }
+    }
+    return [];
+  }
+  let hasErrors = [];
+  let focusFirst = false;
+  let noneCorrect = true; // The grade has a value that marks the answer as not correct.
+  for (let i = 0; i < answers.length; i++) {
+    // Check for non-empty value in the original input and mark them with an error.
+    if (answers.item(i).value.trim() === '') {
+      answers.item(i).classList.add('error');
+      if (!focusFirst) {
+        hasErrors.push(STR.err_empty_answer);
+        answers.item(i).focus();
+        focusFirst = true;
+      }
+    }
+    if (_answerdata[i].fraction === '100' || _answerdata[i].fraction === '=') {
+      noneCorrect = false;
+    }
+  }
+  if (noneCorrect) {
     hasErrors.push(STR.err_none_correct);
   }
   return hasErrors;

diff --git a/lib/editor/tiny/plugins/cloze/version.php b/lib/editor/tiny/plugins/cloze/version.php
@@ -25,8 +25,8 @@
 defined('MOODLE_INTERNAL') || die();
 
 $plugin->component = 'tiny_cloze';
-$plugin->release = '1.7';
-$plugin->version = 2024082700;
+$plugin->release = '1.8';
+$plugin->version = 2024083000;
 $plugin->requires = 2022112800;
 $plugin->maturity = MATURITY_STABLE;
 $plugin->supported = [401, 404];

diff --git a/lib/editor/tiny/plugins/cloze/README.md b/lib/editor/tiny/plugins/cloze/README.md
@@ -1,7 +1,7 @@
 Moodle Tiny editor Cloze question type button
 =============================================
 
-![Release](https://img.shields.io/badge/Release-1.7-blue.svg)
+![Release](https://img.shields.io/badge/Release-1.8-blue.svg)
 [![Moodle Plugin 
 CI](https://github.com/srobotta/moodle-tiny_cloze/workflows/Moodle%20Plugin%20CI/badge.svg?branch=main)](https://github.com/srobotta/moodle-tiny_cloze/actions?query=workflow%3A%22Moodle+Plugin+CI%22+branch%3Amain)
 ![Supported](https://img.shields.io/badge/Moodle-4.1+-orange.svg)
@@ -102,6 +102,12 @@ is not supported here. For more information please check out the Moodle document
 at https://docs.moodle.org/en/Multi-language_content_filter.
 
 ## History
+
+### v1.8
+- Empty response field are automatically ignored when the question otherwise can be created
+from the remaining filled response fields.
+- When creating a new question, by default the first answer is marked as correct, all
+subsequent answer options are marked as incorrect.
 
 ### v1.7
 - When creating blanks for possible answers, the default grade is now "Correct" instead
